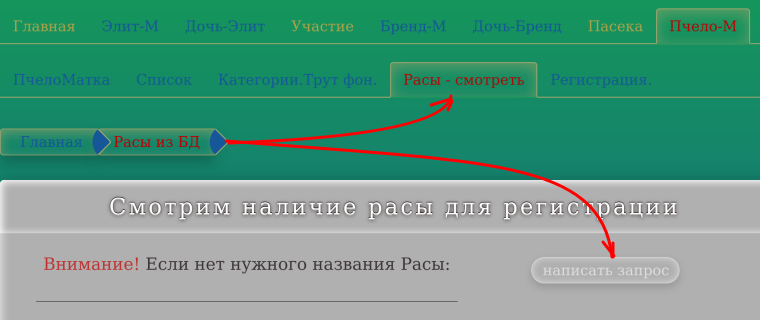
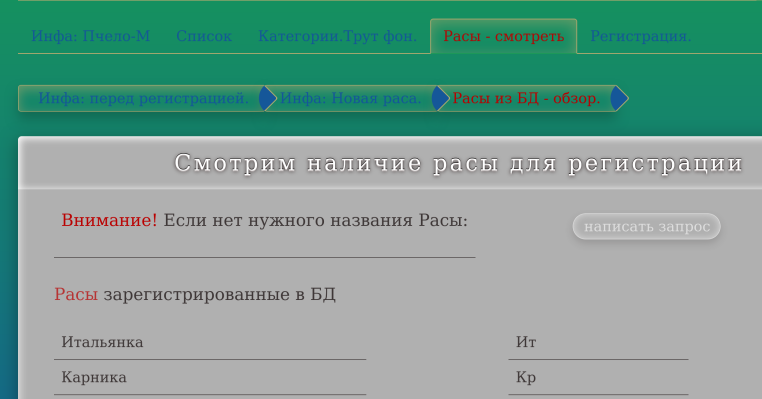
pceloMatka - infa- reg

diff --git a/manager/assets/css/foto-fon-help/matkis/pchelos/_pchelo.scss b/manager/assets/css/foto-fon-help/matkis/pchelos/_pchelo.scss
@@ -10,8 +10,8 @@
 }
 .pchelo-reg {
   background-image: url('../../../../images/foto-for-help/pchelos/pchelo-reg.png');
-  width: 770px;
-  height: 363px;
+  width: 713px;
+  height: 813px;
 }
 
 .pchelo-spisok {
@@ -22,14 +22,14 @@
 
 .pchel-kateg {
   background-image: url('../../../../images/foto-for-help/pchelos/pchelo-kateg.png');
-  width: 845px;
-  height: 443px;
+  width: 731px;
+  height: 397px;
 }
 
 .pchel-rasa {
   background-image: url('../../../../images/foto-for-help/pchelos/rasa-zapr.png');
-  width: 760px;
-  height: 320px;
+  width: 762px;
+  height: 399px;
 }
 
 .pchelo-redakt {
@@ -56,6 +56,11 @@
   height: 520px;
 }
 
+.rasaa-zapr {
+  background-image: url('../../../../images/foto-for-help/pchelos/rasaa-zapr.png');
+  width: 660px;
+  height: 496px;
+}
 
 
 

diff --git a/manager/assets/css/foto-fon-help/matkis/_nachalo.scss b/manager/assets/css/foto-fon-help/matkis/_nachalo.scss
@@ -15,8 +15,8 @@
 }
 .es-uchastnik {
   background-image: url('../../../images/foto-for-help/es-uchastnik.png');
-  width: 858px;
-  height: 359px;
+  width: 860px;
+  height: 607px;
 }
 
 .el-m {
@@ -38,6 +38,6 @@
 
 .wse-m {
   background-image: url('../../../images/foto-for-help/bse-matki/wse-m.png');
-  width: 754px;
-  height: 332px;
+  width: 873px;
+  height: 379px;
 }

diff --git a/manager/assets/css/proekts/paseka/matkas/pchelo/_pchelomat.scss b/manager/assets/css/proekts/paseka/matkas/pchelo/_pchelomat.scss
@@ -72,6 +72,10 @@
   color: $red;
 }
 
+.col-bel-text {
+  color: $color-text;
+}
+
 .pchelo__data {
   display: flex; // добавляем т.к добаилась li-шка
   justify-content: space-between;

diff --git a/manager/src/Controller/Proekt/Pasekas/PcheloMatkas/RasaPchelos/RasaPcheloController.php b/manager/src/Controller/Proekt/Pasekas/PcheloMatkas/RasaPchelos/RasaPcheloController.php
@@ -16,24 +16,15 @@ use Symfony\Component\HttpFoundation\Response;
 use Symfony\Component\Routing\Annotation\Route;
 
 /**
- * @Route("app/proekts/pasekas/pchelomatkas/rasa-pchelos/rasapchelo", name="app.proekts.pasekas.pchelomatkas.rasa-pchelos.rasapchelo")
+ * @Route("app/proekts/pasekas/pchelomatkas/rasa-pchelos", name="app.proekts.pasekas.pchelomatkas.rasa-pchelos")
  */
 
 class RasaPcheloController extends AbstractController
 {
-    private $errors;
-
-    public function __construct(ErrorHandler $errors)
-    {
-        $this->errors = $errors;
-    }
-
 
     /**
-     * @Route("", name="")
+     * @Route("/rasapchelo", name=".rasapchelo")
      * @param RasFetcher $fetcher
-//     * @param CommentPcheloFetcher $comments
-//     * @param Comment\CreatePchelo\Handler $commentHandler
      * @return Response
      */
     public function rasapchelo(Request $request, RasFetcher $fetcher
@@ -44,10 +35,15 @@ class RasaPcheloController extends AbstractController
 
         return $this->render('app/proekts/pasekas/pchelomatkas/rasa-pchelos/rasapchelo.html.twig', [
             'rasas' => $rasas,
-
         ]);
-
-
     }
+    /**
+     * @Route("/infa", name=".infa")
+     * @return Response
+     */
+    public function infa(): Response
+    {
 
+        return $this->render('/app/proekts/pasekas/pchelomatkas/rasa-pchelos/infa.html.twig' );
+    }
 }

diff --git a/manager/src/Controller/Proekt/Pasekas/PcheloMatkas/RasaPchelos/Comments/CommentRasaController.php b/manager/src/Controller/Proekt/Pasekas/PcheloMatkas/RasaPchelos/Comments/CommentRasaController.php
@@ -47,7 +47,7 @@ class CommentRasaController extends AbstractController
                                CommentPcheloFetcher $comments): Response
     {
 //        $rasas = $fetcher->all();
-
+//dd($rasa);
         $commentCommand = new CreatePchelo\Command(
             $this->getUser()->getId(),
             Ras::class,

diff --git a/manager/src/Model/Comment/UseCase/Comment/CreatePchelo/Command.php b/manager/src/Model/Comment/UseCase/Comment/CreatePchelo/Command.php
@@ -31,7 +31,7 @@ class Command
      */
     public $text;
 //
-    public function __construct(string $author, string $type, int $id)
+    public function __construct(string $author, string $type, string $id)
     {
         $this->author = $author;
         $this->entityType = $type;

diff --git a/manager/src/Controller/Proekt/Pasekas/PcheloMatkas/Kategoris/KategorController.php b/manager/src/Controller/Proekt/Pasekas/PcheloMatkas/Kategoris/KategorController.php
@@ -38,7 +38,6 @@ class KategorController extends AbstractController
 
      /**
      * @Route("/infa", name=".infa")
-     * @param Request $request
      * @return Response
      */
     public function infa(): Response
